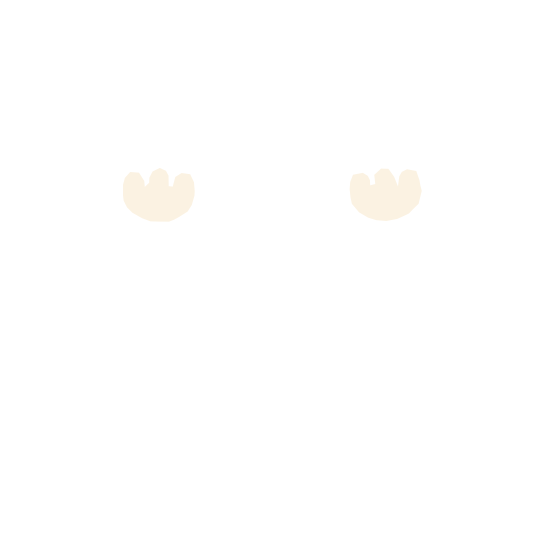
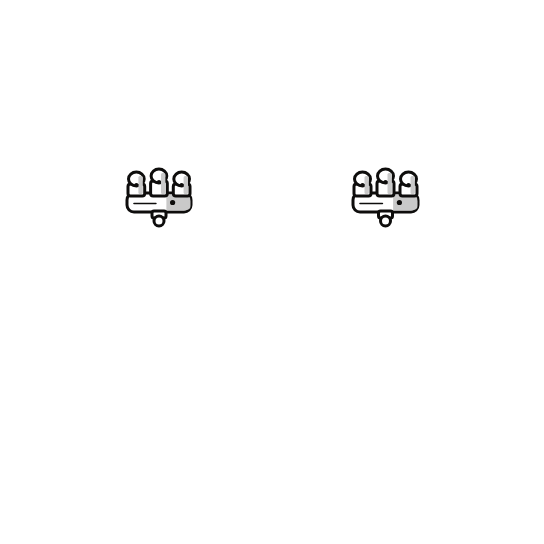
Splash and launch: the new Blip, black on white, his feelers swinging with physics
app/assets/launch is the new art (tools/media/brand/blip-icon/launch/gen.mjs):
Blip in ink, hanging upside down from the bar by his robot hands, shades on,
the icon's feelers hanging from the top of his head; splash.png is the layers
stacked at rest, so the native splash is the curtain's first frame (checked in
a browser through react-native-web: 32 anti-aliased edge pixels differ).

LaunchCurtain draws the four feeler pieces inside the head's clip, behind the
head, each turned about its pivot by the physics keys (launchCore feeler), and
fading with feelersShown; the motion waits for all eight layers. The motion
itself is unchanged. The blink layer is now a glint across his shades.

Claude-Session: https://claude.ai/code/session_01HtN9ZJ4BJKq2chWiw1dFay

Changed region(s): [[0.625, 0.3125, 0.7812, 0.4375], [0.2188, 0.3125, 0.375, 0.4375]]

diff --git a/app/src/launch/LaunchCurtain.tsx b/app/src/launch/LaunchCurtain.tsx
@@ -19,8 +19,9 @@ import { AccessibilityInfo, Animated, Easing, Image, StyleSheet, View } from "re
 import { num } from "../sdui/knobs";
 import {
   BAR, BAR_MID, BAR_TOP, COME_BACK, COME_BACK_MS, FADE_MS, GLOVES, GONE_AT, GRIP_AT, GROUND, LAUNCH_MS, LET_GO, LET_GO_MS, PINCH_AT, SPLASH_PT,
-  STRIPS, SUCK_AT, U, barDy, degKeys, glove, head, hideNativeSplash, isLifted, keys, liftLaunch, onLift, strip,
+  STRIPS, SUCK_AT, U, barDy, degKeys, feeler, feelersShown, glove, head, hideNativeSplash, isLifted, keys, liftLaunch, onLift, strip,
 } from "./launchCore";
+import { FEELER_ART } from "./feelerArt";
 
 /* eslint-disable @typescript-eslint/no-require-imports */
 const ART = {
@@ -29,7 +30,13 @@ const ART = {
   bar: require("../../assets/launch/bar.png"),
   hands: require("../../assets/launch/hands.png"),
   blink: require("../../assets/launch/blink.png"),
+  feelerL1: require("../../assets/launch/feelerL1.png"),
+  feelerL2: require("../../assets/launch/feelerL2.png"),
+  feelerR1: require("../../assets/launch/feelerR1.png"),
+  feelerR2: require("../../assets/launch/feelerR2.png"),
 };
+/** The art the motion waits for before it starts: head, blink, bar, a glove, and the four pieces of Blip's feelers. */
+const ART_TO_LOAD = 8;
 /* eslint-enable @typescript-eslint/no-require-imports */
 
 const Z = SPLASH_PT;
@@ -44,6 +51,12 @@ const K = {
   bar: keys(barDy, 0, PINCH_AT),
   head: { dy: keys((t) => head(t).dy, 0, 900), sway: degKeys((t) => head(t).sway, 0, 900), sq: keys((t) => head(t).sq, 0, 900),
     shut: keys((t) => head(t).shut, 0, 700), shown: keys((t) => head(t).shown, 880, 900, 20) },
+  // Blip's feelers: each piece's turn from rest (the physics, launchCore feelerTrack), and how much of them shows
+  feelers: {
+    L: [degKeys((t) => feeler("l1", t), 0, 900), degKeys((t) => feeler("l2", t), 0, 900)],
+    R: [degKeys((t) => feeler("r1", t), 0, 900), degKeys((t) => feeler("r2", t), 0, 900)],
+    shown: keys(feelersShown, 0, 900),
+  },
   gloves: ([0, 1] as const).map((s) => {
     const k = (f: (g: ReturnType<typeof glove>) => number, from: number, to: number) => keys((t) => f(glove(s, t)), from, to);
     return {
@@ -98,7 +111,7 @@ export default function LaunchCurtain() {
       });
     });
   }).current;
-  const loaded = () => { if (++loads.current >= 4) start(); };
+  const loaded = () => { if (++loads.current >= ART_TO_LOAD) start(); };
 
   useEffect(() => {
     if (gone) return;
@@ -121,6 +134,21 @@ export default function LaunchCurtain() {
         <Animated.View style={[styles.below, { left: -WIDE, width: Z + 2 * WIDE, transform: [{ translateY: bar }] }]}>
           <Animated.View style={[styles.piece, { left: WIDE, opacity: at(K.head.shown), transformOrigin: "50% 0%",
             transform: [{ rotate: at(K.head.sway) }, { scaleY: at(K.head.sq) }, { translateY: at(K.head.dy) }] }]}>
+            {/* His feelers, behind his head: he hangs upside down, so they hang from the top of his head, at the bottom.
+                Each is two pieces drawn at rest, each turned about its pivot (the root; the cut) by the physics. */}
+            <Animated.View style={[styles.piece, { opacity: at(K.feelers.shown) }]}>
+              {(["L", "R"] as const).map((s) => {
+                const [rx, ry] = FEELER_ART.roots[s], [jx, jy] = FEELER_ART.joints[s];
+                return (
+                  <Animated.View key={s} style={[styles.piece, { transformOrigin: `${rx * U}px ${ry * U - BAR_TOP}px`, transform: [{ rotate: at(K.feelers[s][0]) }] }]}>
+                    <Image source={s === "L" ? ART.feelerL1 : ART.feelerR1} style={styles.lifted} onLoad={loaded} />
+                    <Animated.View style={[styles.piece, { transformOrigin: `${jx * U}px ${jy * U - BAR_TOP}px`, transform: [{ rotate: at(K.feelers[s][1]) }] }]}>
+                      <Image source={s === "L" ? ART.feelerL2 : ART.feelerR2} style={styles.lifted} onLoad={loaded} />
+                    </Animated.View>
+                  </Animated.View>
+                );
+              })}
+            </Animated.View>
             <Image source={ART.head} style={styles.lifted} onLoad={loaded} />
             <Animated.Image source={ART.blink} style={[styles.lifted, { opacity: at(K.head.shut) }]} onLoad={loaded} />
           </Animated.View>

diff --git a/app/src/launch/launchCore.ts b/app/src/launch/launchCore.ts
@@ -2,10 +2,12 @@
  * THE LAUNCH: the native splash, then the bot pulls himself up over his bar and is gone, hands and all; his hands come
  * back and grip the bar, and it is pulled in to its middle with them; and the app is there.
  *
- * The native splash (app.config.ts, expo-splash-screen) is the app icon's bot, small, hanging from a piece of its clay
- * bar, centred on white: the Bots app's own paper, so the end of the launch is already the app's ground.
+ * The native splash (app.config.ts, expo-splash-screen) is the app icon's Blip, small, in ink: hanging upside down from
+ * a piece of bar by his robot hands, his shades on, his feelers hanging from the top of his head (at the bottom),
+ * centred on white: the Bots app's own paper, so the end of the launch is already the app's ground. His feelers swing
+ * with physics as he moves (feelerTrack, below).
  * LaunchCurtain draws that same picture in the same place from the same art (assets/launch, cut by
- * tools/media/brand/x0-icon/curious-hang/launch.mjs), lifts the native splash from under it, and plays the motion
+ * tools/media/brand/blip-icon/launch/gen.mjs), lifts the native splash from under it, and plays the motion
  * below. It lets go once the motion is over and the app has a screen (SduiApp calls liftLaunch()), whichever is later.
  *
  * Every moving part is a function of t, the ms since the motion began, sampled into keys for Animated.interpolate:
@@ -44,7 +46,7 @@ export const FADE_MS = 220;
 export const STRIPS = 48;
 
 // The beats (t, ms):
-//   0      the splash, still · 200 a blink
+//   0      the splash, still · 200 a glint across his shades (where the old bot blinked)
 //   420    he gathers: a small dip, the bar giving under him · 560 he pulls himself up, quick out and slow in, a little
 //          sway, his head going up behind the bar · 690 / 740 his gloves let go, left then right, while he is still
 //          rising: each slips behind the bar after him, fingers first, and is gone as his head is

diff --git a/app/app.config.ts b/app/app.config.ts
@@ -462,9 +462,10 @@ const config: ExpoConfig = {
     // plugins added the contacts, calendars and reminders strings, and
     // READ/WRITE_CONTACTS and READ/WRITE_CALENDAR on Android).
     "expo-video",
-    // Splash / launch screen: the app icon's bot, small, hanging from a piece of
-    // its clay bar, dead centre on white: the Bots app's own paper, so the
-    // launch ends on the app's ground. ONE asset, both platforms.
+    // Splash / launch screen: the app icon's Blip, small, in ink, hanging upside
+    // down from a piece of bar by his robot hands, shades on, his feelers
+    // hanging from the top of his head; dead centre on white: the Bots app's own
+    // paper, so the launch ends on the app's ground. ONE asset, both platforms.
     //
     // From API 31 Android's splash is the SYSTEM one: a colour and a centred
     // icon, masked to a circle 192 dp across. There is no full-bleed option, so
@@ -473,10 +474,10 @@ const config: ExpoConfig = {
     // same picture at the same size.
     //
     // THE LAUNCH ANIMATION STARTS FROM THIS FRAME. src/launch/LaunchCurtain draws
-    // the same art (assets/launch: drawn with the icon's own code by
-    // tools/media/brand/x0-icon/curious-hang/launch.mjs) at the same size on the
-    // same ground, lifts this splash from under it, and the bot pulls himself
-    // up over his bar and is gone, hands and all; then his hands come back and
+    // the same art (assets/launch: drawn by tools/media/brand/blip-icon/launch/
+    // gen.mjs, this splash being its layers stacked at rest) at the same size on
+    // the same ground, lifts this splash from under it, and Blip pulls himself
+    // up over his bar, feelers swinging, and is gone, hands and all; then his hands come back and
     // grab the bar's middle, one from above and one from below, and the bar is
     // pulled in to them as they twist.
     // imageWidth and backgroundColor here are SPLASH_PT and GROUND in

diff --git a/app/src/launch/launchCore.test.ts b/app/src/launch/launchCore.test.ts
@@ -159,3 +159,13 @@ test("the feelers stand above the bar, so they go as he starts up: shown at rest
   assert.equal(feelersShown(FEELERS_OUT[1]), 0);
   assert.ok(FEELERS_OUT[1] < 900, "before the head goes");
 });
+
+test("the splash is the launch's layers stacked at rest, feelers and all: one picture, so the motion carries on from it", () => {
+  for (const f of ["splash", "head", "bar", "hands", "blink", "feelerL1", "feelerL2", "feelerR1", "feelerR2"]) {
+    const png = read(`../../assets/launch/${f}.png`);
+    assert.equal(png.readUInt32BE(16), 544, `${f}.png is 544 wide`);
+    assert.equal(png.readUInt32BE(20), 544, `${f}.png is 544 high`);
+  }
+  const curtain = read("./LaunchCurtain.tsx").toString();
+  for (const f of ["feelerL1", "feelerL2", "feelerR1", "feelerR2"]) assert.match(curtain, new RegExp(`assets/launch/${f}\\.png`));
+});
